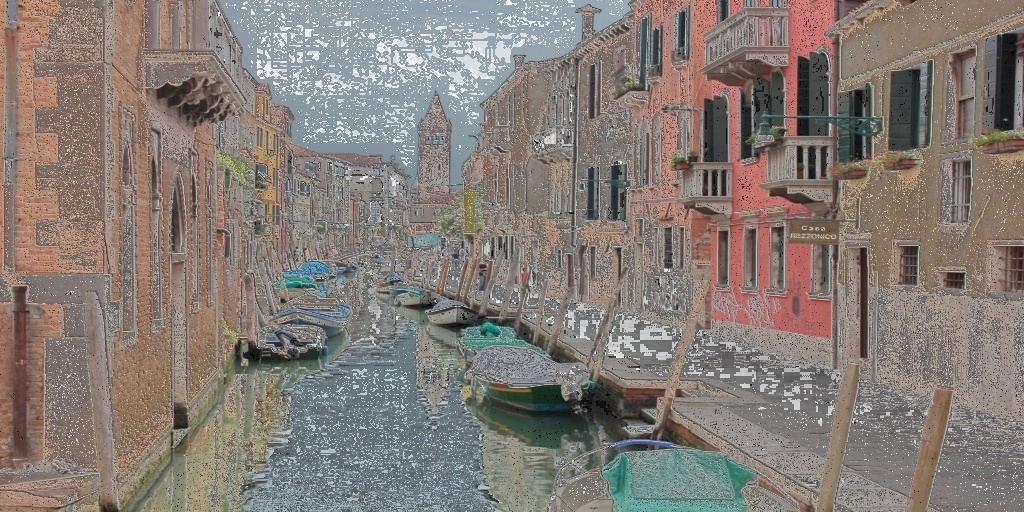
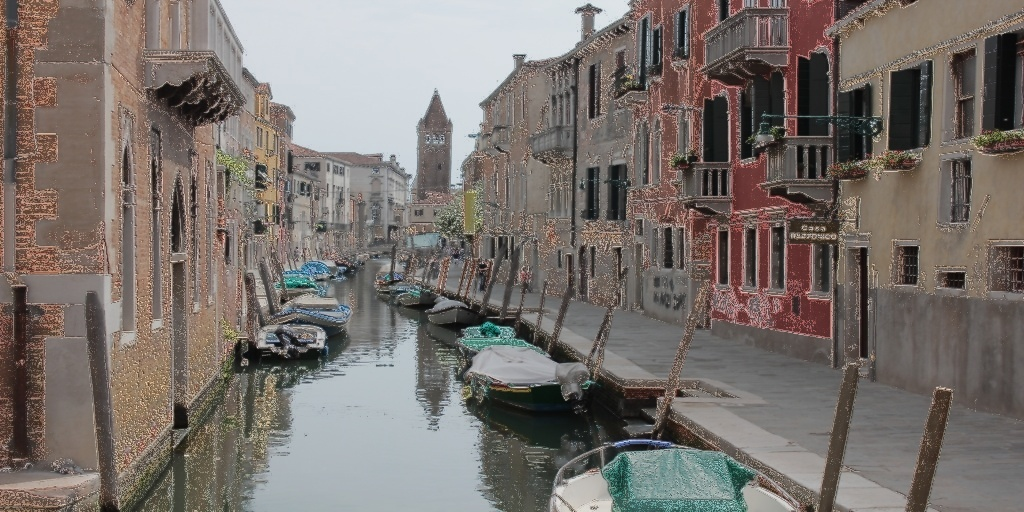
4.3.1

diff --git a/source/algorithms.py b/source/algorithms.py
@@ -1,6 +1,7 @@
 from utils import *
 import cv2 as cv
 import numpy as np
+from math import *
 import pdb
 
 
@@ -15,7 +16,6 @@ def naive_EF(locations, w_exps, sigma, INF):
             img = cv.Laplacian(img, ddepth=cv.CV_32F)  # 边缘检测, float32
             img = np.absolute(img)  # 对所有元素取绝对值
             weights[i] = img
-            print(img)
         return weights
     def calc_S(imgs):
         'todo：探究全是'
@@ -29,73 +29,66 @@ def naive_EF(locations, w_exps, sigma, INF):
     imgs = readImageSeq(locations)  # 已经是np数组
     imgs = np.float32(imgs) / INF   # 将uint8转换成float32，0-1区间
     # print(imgs.shape, imgs.dtype)   # (N, W, H, C), dtype
-    W = calc_C(imgs)**w_exps[0] * calc_S(imgs)**w_exps[1] * calc_W(imgs, sigma)**w_exps[2]  # section 3.1 done
-    W += 1e-9   # for stability
-    W = np.einsum('ij, kij -> kij', (1./W.sum(axis=0)), W)  # normalized，对应原文中的W_hat
-    # print(W[:, 0, 0].sum())
+    C = calc_C(imgs)**w_exps[0]
+    S = calc_S(imgs)**w_exps[1]
+    W = calc_W(imgs)**w_exps[2]
+    W0 = C * S * W  # section 3.1 done
+    W0 += 1e-9   # for stability
+    # print(W.shape)  # (3, 512, 1024)
 
-    R = np.einsum('kij, kijc -> ijc', W, imgs)
-    return W, R # weight map以及生成的img，注意W是单通道的，btw.[0, 1]，R是三通道的，btw.[0, 1]
+    '''divsum'''
+    W1 = np.einsum('ij, kij -> kij', (1 / W0.sum(axis=0)), W0)  # normalized，对应原文中的W_hat
+    '''softmax'''
+    W2 = np.exp(W0)
+    W2 = np.einsum('ij, kij -> kij', (1 / W2.sum(axis=0)), W2)  # 不可行，权重太接近
+
+    R = np.einsum('kij, kijc -> ijc', W1, imgs)
+    return W1, R # weight map以及生成的img，注意W是单通道的，btw.[0, 1]，R是三通道的，btw.[0, 1]
 
 
 def pyramid_EF(locations, w_exps, sigma, INF, depth):
-    def Gaussian_Pyramid(imgs, depth=5):
-        res = [[] for _ in range(len(imgs))]    # 生成一个含有图片个数个列表的空列表
-        for i, img in enumerate(imgs):
-            for d in range(depth):
-                if d:
-                    img = cv.pyrDown(img)
-                # 从原图开始
-                res[i].append(img)
-                # cv.imwrite(f'outputs/Gaussian_Pyramids/weights/{i, d}.jpg', img*INF)
-                # cv.imwrite(f'outputs/Gaussian_Pyramids/imgs/{i, d}.jpg', img*INF)
-                # 注意要想清楚是在计算谁的(weights/imgs)的高斯金字塔，存放时要分开存储
-        return res
-    def Laplacian_Pyramid(imgs, depth=5):
-        res = [[] for _ in range(len(imgs))]    # 生成一个含有图片个数个列表的空列表
-        Gauss_pyrs = Gaussian_Pyramid(imgs, depth + 1)   # 计算最后一层高斯金字塔对应的拉普拉斯金字塔时，需要更下一层的高斯金字塔
-        for i, Gauss_pyr in enumerate(Gauss_pyrs):
-            # 第i张图片的高斯金字塔
-            for d, Gauss_img in enumerate(Gauss_pyr[ : -1]):
-                # 计算第j张高斯图对应的拉普拉斯图
-                down_up = cv.pyrUp(Gauss_pyr[d+1])
-                res[i].append(Gauss_img - down_up)
-                # cv.imwrite(f'outputs/Laplacian_Pyramids/imgs/{i, d}.jpg', res[i][d]*INF)
-        return Gauss_pyrs, res
+    def PyrBuild(img, depth=5):
+        # D * [Hd * Wd * C]
+        Gauss = [None] * depth
+        Lapla = [None] * (depth - 1)
+        Gauss[0] = img
+        for i in range(depth - 1):
+            Gauss[i+1] = cv.pyrDown(Gauss[i])
+            Lapla[i] = Gauss[i] - cv.pyrUp(Gauss[i+1])
+        return Gauss, Lapla
+    def PyrRecovery(img, Lapla):
+        depth = len(Lapla)
+        Recov = [None] * (depth + 1)
+        Recov[depth] = img
+        for d in range(depth-1, -1, -1):
+            Recov[d] = Lapla[d] + cv.pyrUp(Recov[d+1])
+        return Recov
 
 
     imgs = readImageSeq(locations)  # 已经是np数组
     imgs = np.float32(imgs) / INF   # 将uint8转换成float32，0-1区间
     W, _ = naive_EF(locations, w_exps, sigma, INF)
 
-    '---根据公式，需要计算W的Gaussian金字塔，以及I的Laplacian金字塔'
-    Gauss_W = Gaussian_Pyramid(W, depth + 1)    # 最后一层小图collapse时使用
-    Gauss_I, Laplace_I = Laplacian_Pyramid(imgs, depth) # Gauss_I需要保存，在collapse时使用
-    Laplace_output = [[] for _ in range(depth)] # 记录最终合成的laplace金字塔，共depth层
-    for d in range(depth-1, -1, -1):
-        L_final = np.empty(Laplace_I[0][d].shape)
-        for i in range(len(imgs)):
-            G = Gauss_W[i][d]   # shape=(i, j)
-            L = Laplace_I[i][d] # shape=(i, j, c)
-            G, L = np.asarray(G), np.asarray(L)
-            L_final += np.einsum('ij, ijc -> ijc', G, L)
-        Laplace_output[d] = L_final
-        # cv.imwrite(f'outputs/Laplacian_Pyramids/final/{d}.jpg', L_final*INF)    # todo: INF or INFINF？
+    '--- 计算合成图片的Laplace金字塔'
+    # 根据公式，需要计算W的Gaussian金字塔，以及I的Laplacian金字塔
+    Gauss_W = [None] * imgs.shape[0]
+    Gauss_I = [None] * imgs.shape[0]
+    Lapla_I = [None] * imgs.shape[0]
+    for k in range(imgs.shape[0]):
+        Gauss_W[k], _ = PyrBuild(W[k], depth)
+        Gauss_I[k], Lapla_I[k] = PyrBuild(imgs[k], depth)   # Gauss_I需要保存，在collapse时使用
+    Lapla_final = []
+    for d in range(depth - 1):
+        L = np.zeros(Lapla_I[0][d].shape)
+        for k in range(imgs.shape[0]):
+            L += np.expand_dims(Gauss_W[k][d], axis=-1).repeat(imgs.shape[-1], axis=-1) * Lapla_I[k][d]
+        Lapla_final.append(L)
+
+    '--- 计算合成图片的底片'
+    base = np.zeros(Gauss_I[0][-1].shape)
+    for k in range(imgs.shape[0]):
+        base += np.expand_dims(Gauss_W[k][-1], axis=-1).repeat(imgs.shape[-1], axis=-1) * Gauss_I[k][-1]
+
     '--- collapse'
-    Gauss_I_least, Gauss_W_least = np.empty(Gauss_I[0][-1].shape), np.empty(Gauss_I[0][-1].shape[ : -1])    # 单张最小图片的尺寸
-    Gauss_I_least = np.expand_dims(Gauss_I_least, axis=0).repeat(len(imgs), axis=0) # 需要多张图片的空间
-    Gauss_W_least = np.expand_dims(Gauss_W_least, axis=0).repeat(len(imgs), axis=0) # 需要多张图片的空间
-    for i, (img_pyr, w_pyr) in enumerate(zip(Gauss_I, Gauss_W)):
-        Gauss_I_least[i] = img_pyr[-1]
-        Gauss_W_least[i] = w_pyr[-1]
-    img_least = np.einsum('kij, kijc -> ijc', Gauss_W_least, Gauss_I_least) # 最小的重建图片
-    # now that we have img_least and Laplace_output, we can directly collapse the output img
-    for d in range(depth-1, -1, -1):
-        down_up = cv.pyrUp(img_least)
-        Laplace_output[d] += down_up
-        img_least = Laplace_output[d]
-    return Laplace_output[0]
-
-
-
-
+    img_pyr = PyrRecovery(base, Lapla_final)
+    return img_pyr[0]

diff --git a/source/main.py b/source/main.py
@@ -1,21 +1,30 @@
-import cv2 as cv
-import numpy as np
-
-from utils import *
 from algorithms import *
+import random
 
 locations = ['figs/venice_canal_exp_0.jpg', 'figs/venice_canal_exp_1.jpg', 'figs/venice_canal_exp_2.jpg']
 sigma = 0.2
 INF = 255
-depth = 5
+depth = 6   # Gauss depth, not Laplacian depth
+w_exps = [4, 3, 1]
 
 
-_, naive_fused_img = naive_EF(locations, [1, 1, 1], sigma, INF)
+'''naive-EF'''
+weights, naive_fused_img = naive_EF(locations, w_exps, sigma, INF)
 cv.imwrite('outputs/naive_fused.jpg', naive_fused_img*INF)  # 计算并保存naive版本的EF fusion
+for i, weight in enumerate(weights):
+    cv.imwrite(f'outputs/naive/weights/{i}.jpg', weight*INF)
+for i in range(30):
+    row = random.randint(0, weights.shape[1]-1)
+    col = random.randint(0, weights.shape[2]-1)
+    print(weights[:, row, col])
 
-pyramid_fused_img = pyramid_EF(locations, [1, 1, 1], sigma, INF, depth)
+'''pyramid-EF'''
+pyramid_fused_img = pyramid_EF(locations, w_exps, sigma, INF, depth)
 cv.imwrite('outputs/pyramid_fused.jpg', pyramid_fused_img*INF)
 
-
+'''opencv实现的ExposureFusion'''
+imgs = readImageSeq(locations)
+img = cv.createMergeMertens().process(imgs)
+cv.imwrite('outputs/opencv.jpg', img*INF)  # 计算并保存naive版本的EF fusion
 
 cv.waitKey()

diff --git a/source/utils.py b/source/utils.py
@@ -1,6 +1,9 @@
 import cv2 as cv
 import numpy as np
 
+
+INF = 255
+
 def readImageSeq(locations):
     assert len(locations) > 1  # 至少要读到多于1张图片
 
@@ -13,3 +16,5 @@ def readImageSeq(locations):
     imgs = np.asarray(imgs)  # 从列表转换成numpy数组
 
     return imgs
+
+
